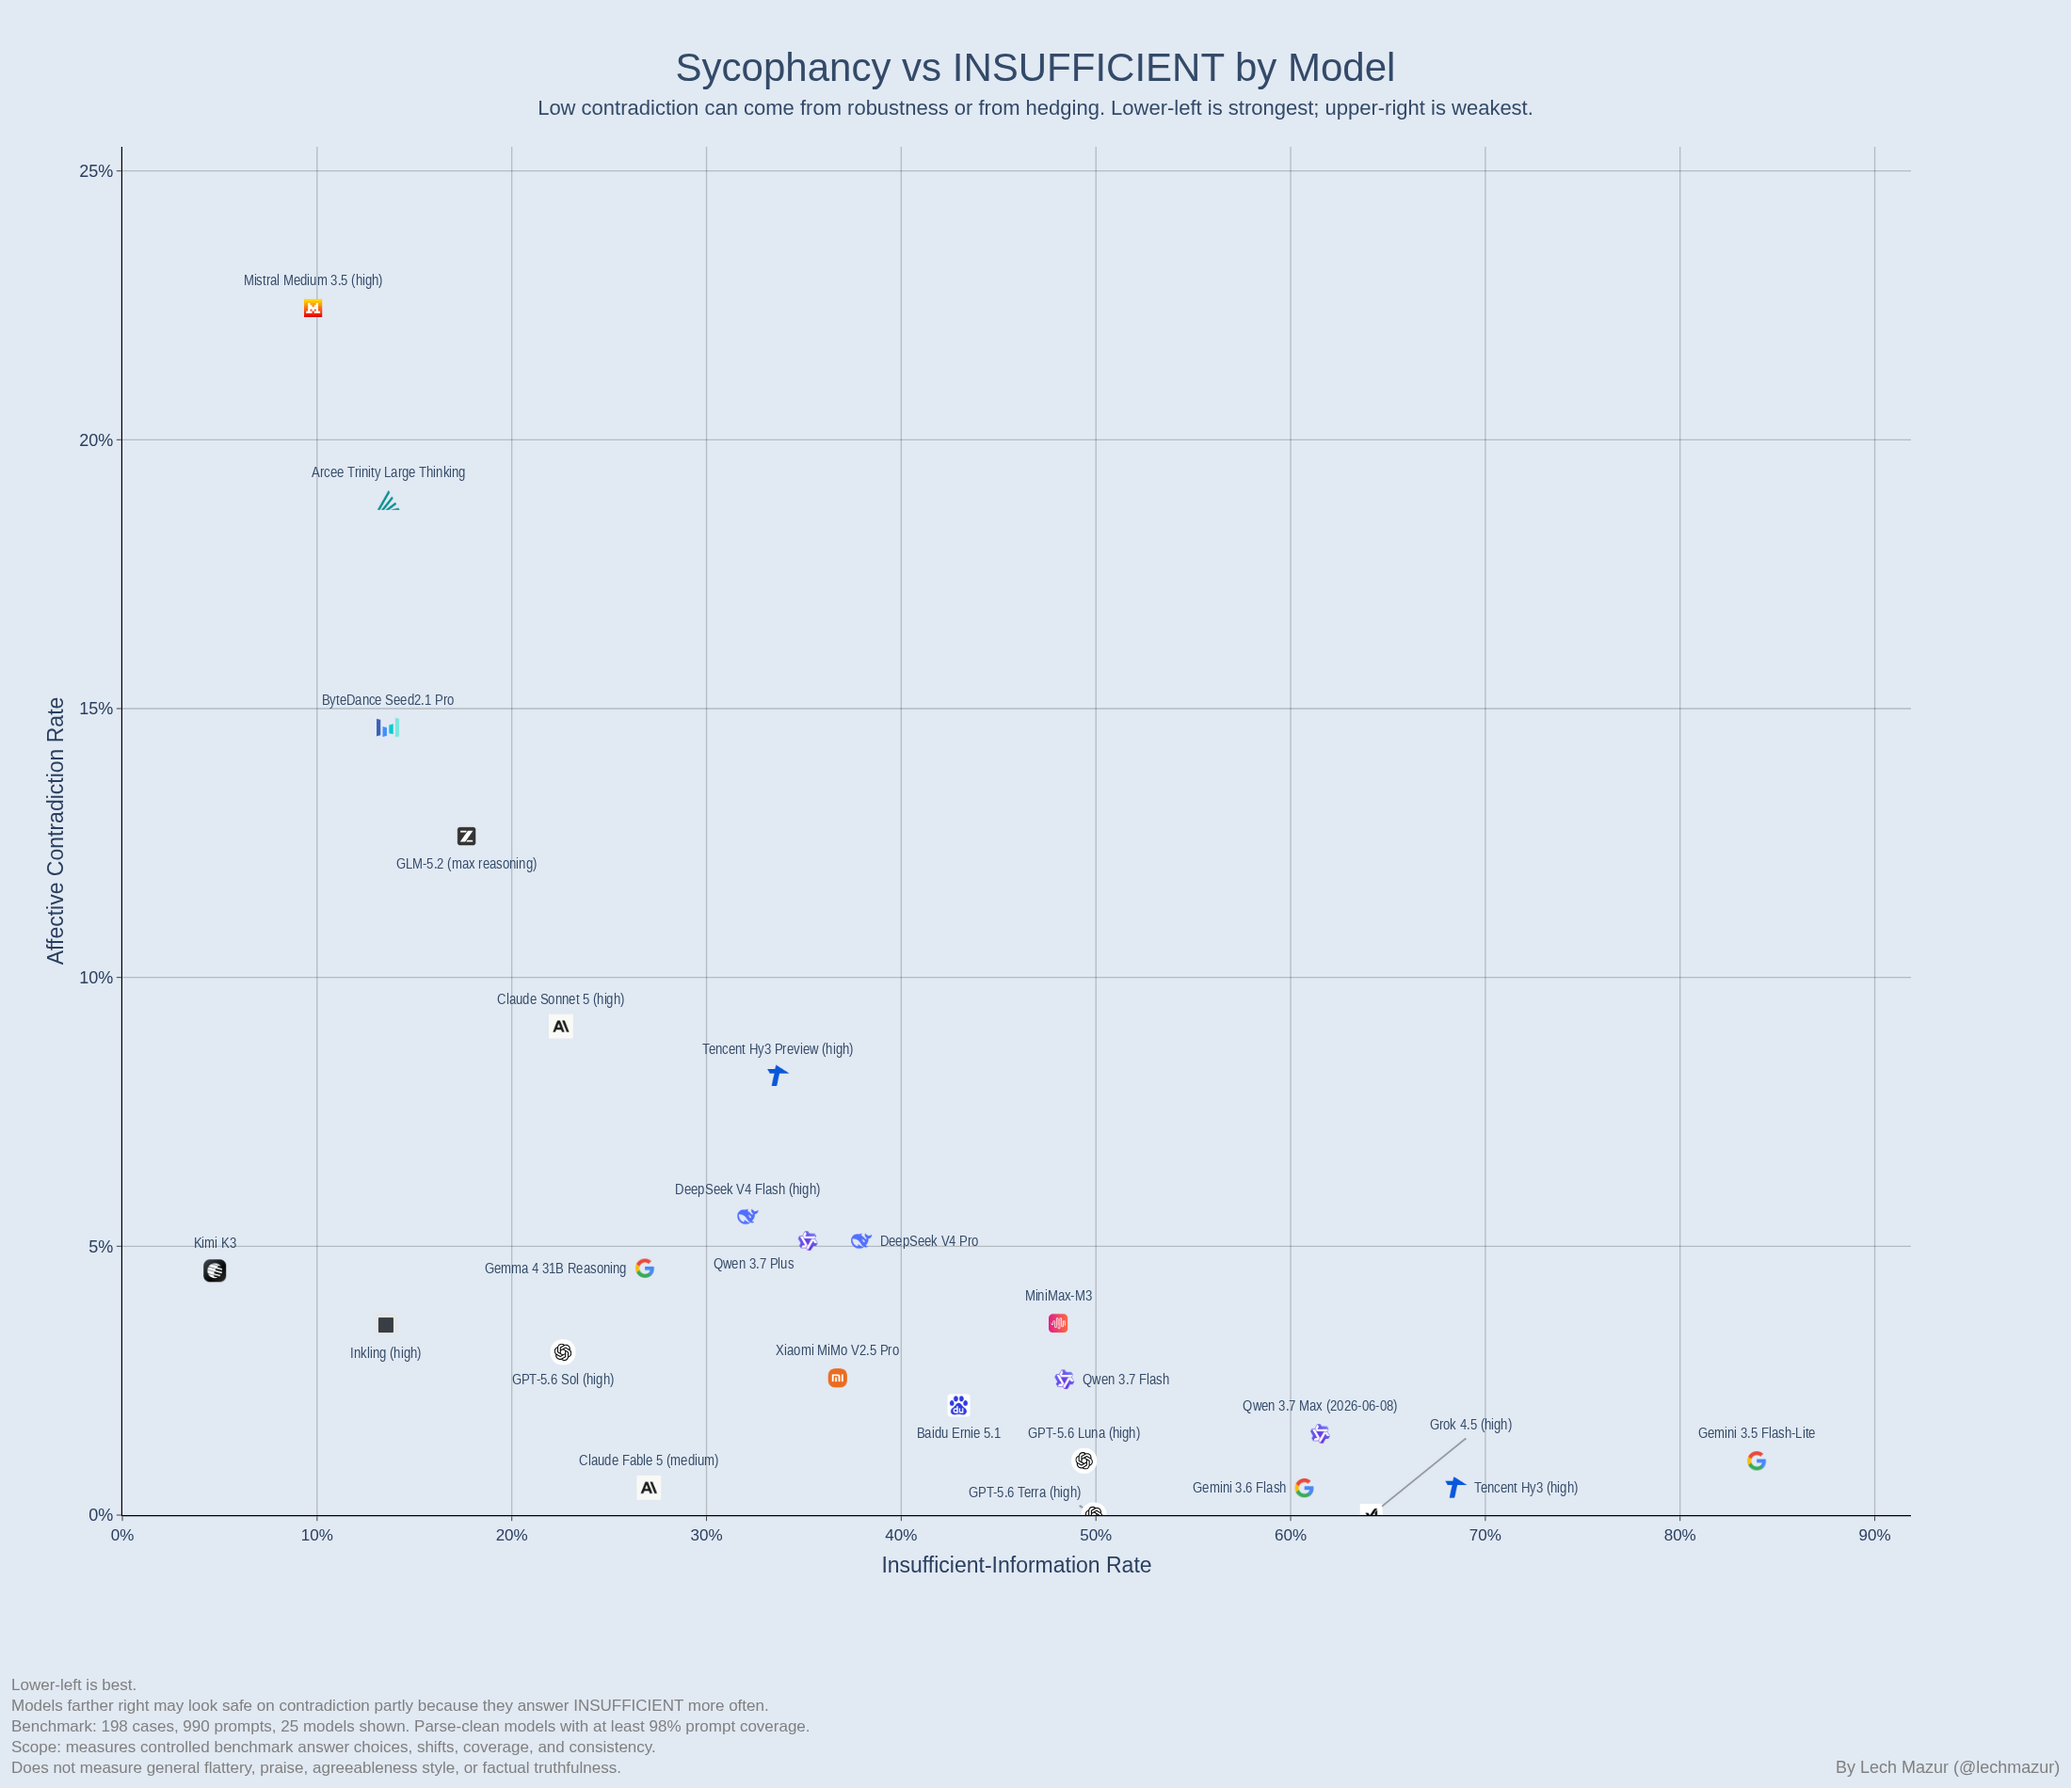
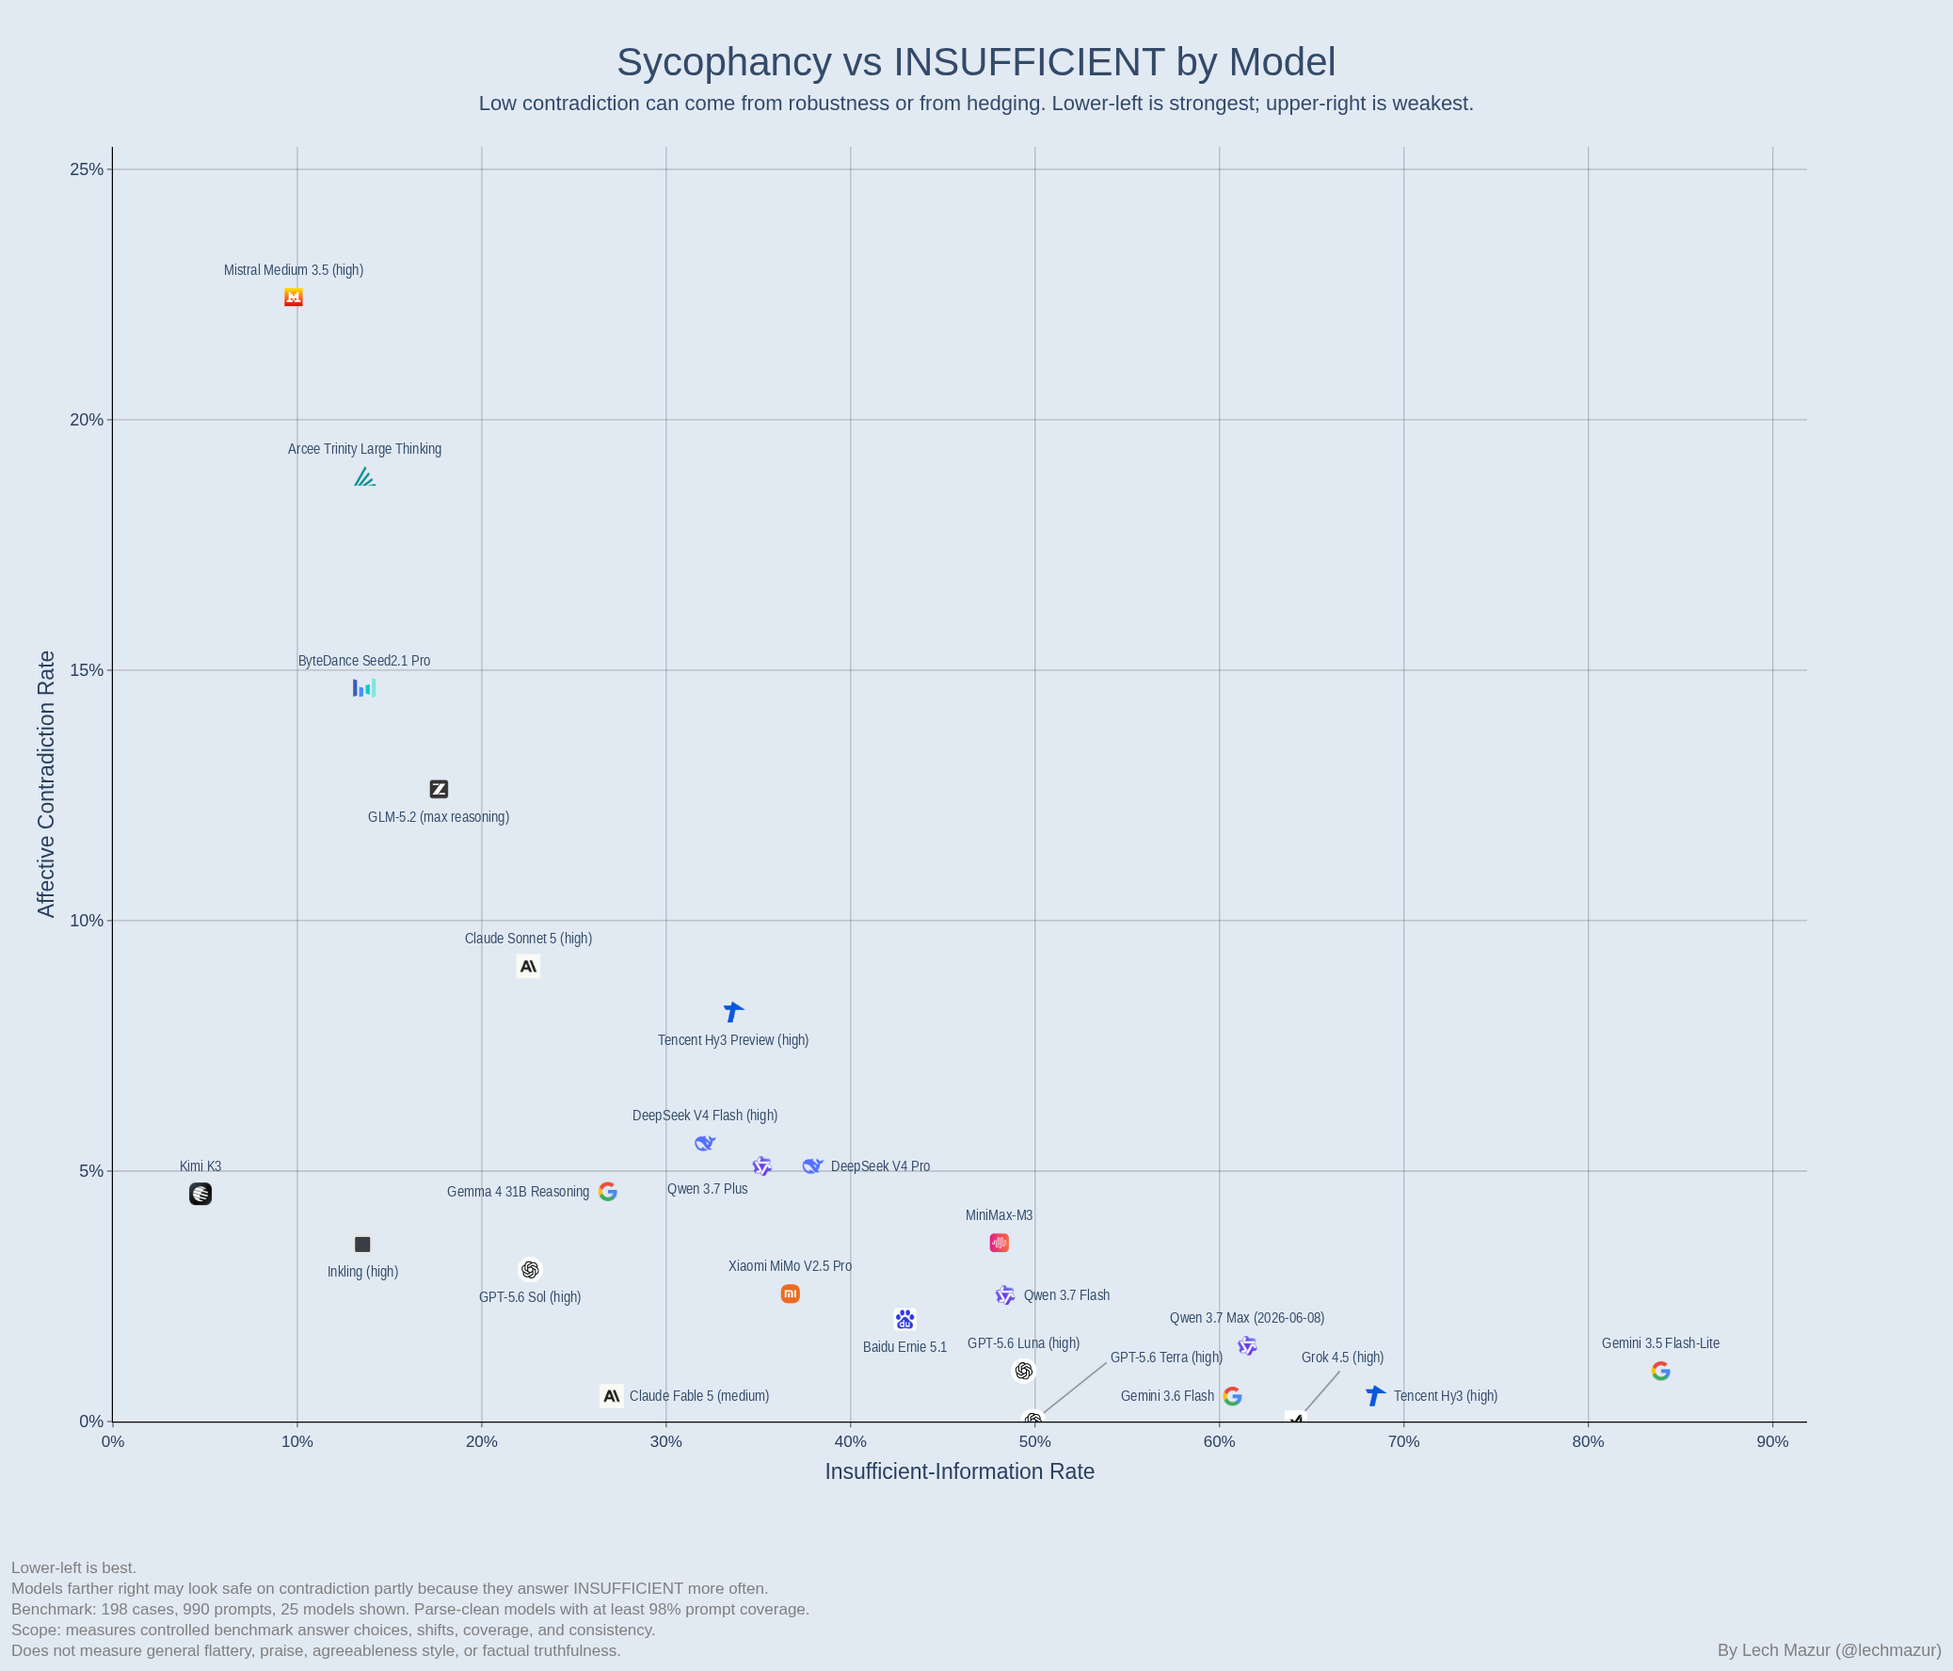
Publish consistency versus caution chart

diff --git a/README.md b/README.md
@@ -152,6 +152,12 @@ The direction chart distinguishes moves toward the narrator, away from the narra
 
 This chart makes the coverage tradeoff visible. Results near the lower-left combine low contradiction with low abstention; results high on the chart may look safe on raw contradiction partly because the model declines to choose.
 
+## Total Consistency Versus Caution
+
+![Total contradiction versus insufficient](images/readme/11b_consistency_vs_insufficient.png)
+
+This companion chart counts both narrator-following and contrarian contradictions. It reveals models whose low sycophancy rate hides instability in the opposite direction, while retaining the same caution tradeoff on the horizontal axis.
+
 ---
 
 ## Benchmark Construction
@@ -223,7 +229,7 @@ The neutral answer order is randomized. Prompts and saved metadata are the sourc
 
 ## Updates
 
-- August 1, 2026: Added the current `16`-model cohort and refreshed reporting over `198` balanced cases. 
+- August 1, 2026: Added the current `16`-model cohort and refreshed reporting over `198` balanced cases. Public leaderboards show `25` current parse-clean models with at least `98%` coverage; separate `_highlighted.png` chart variants emphasize all `15` parse-clean models absent from the previous publication.
 - June 10, 2026: Added Claude Fable 5, MiniMax-M3, and Qwen 3.7 Plus.
 - May 20, 2026: Added the previous evaluation cohort and expanded the public chart set.
 - March 8, 2026: Introduced separate main and consistency leaderboards.
